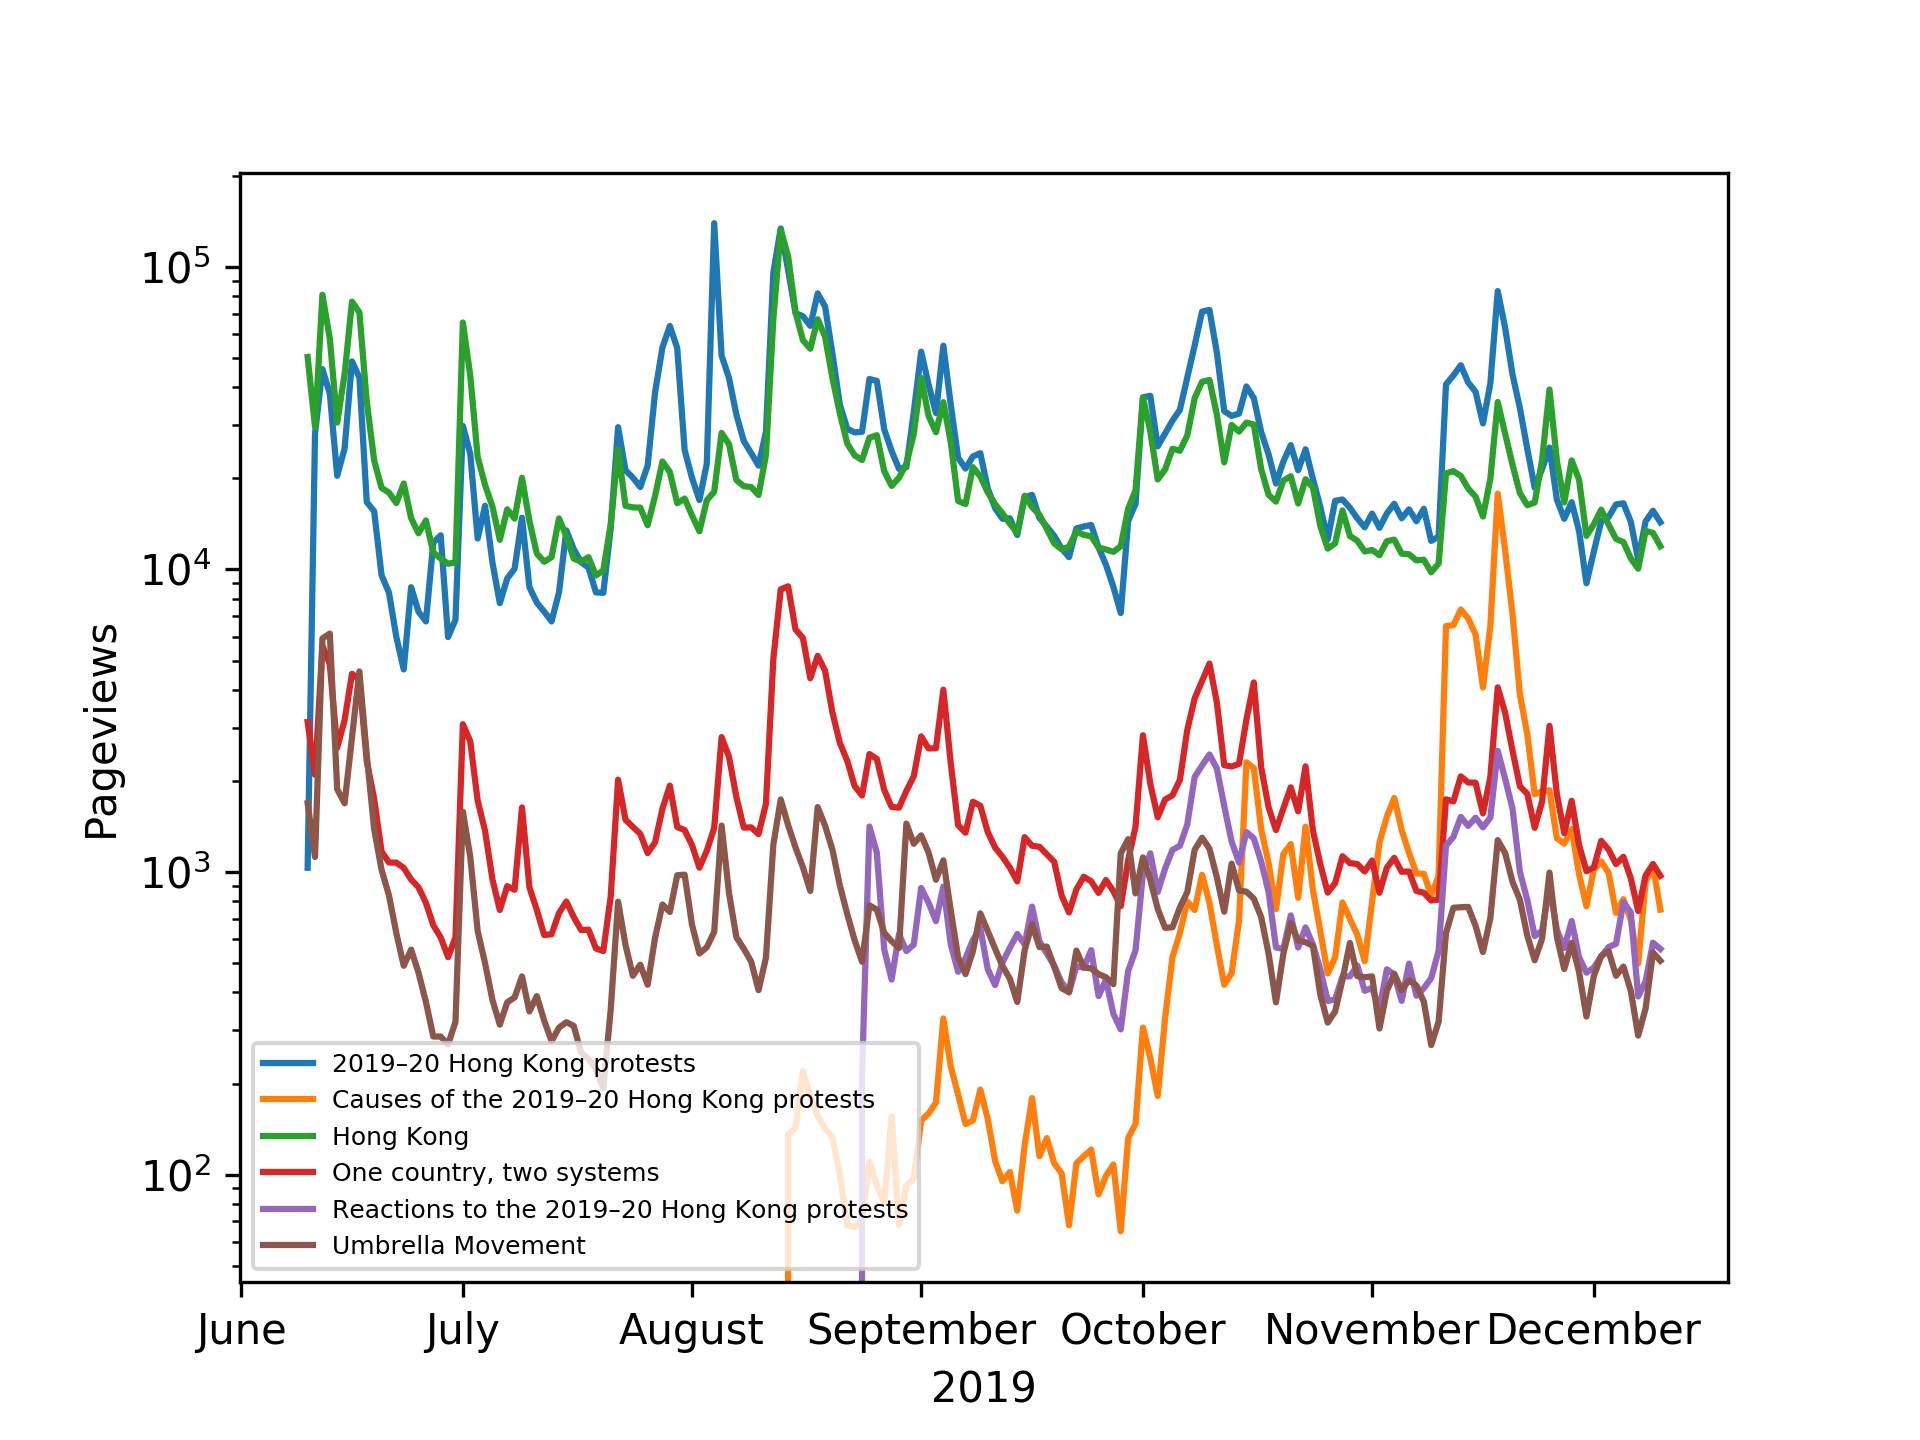
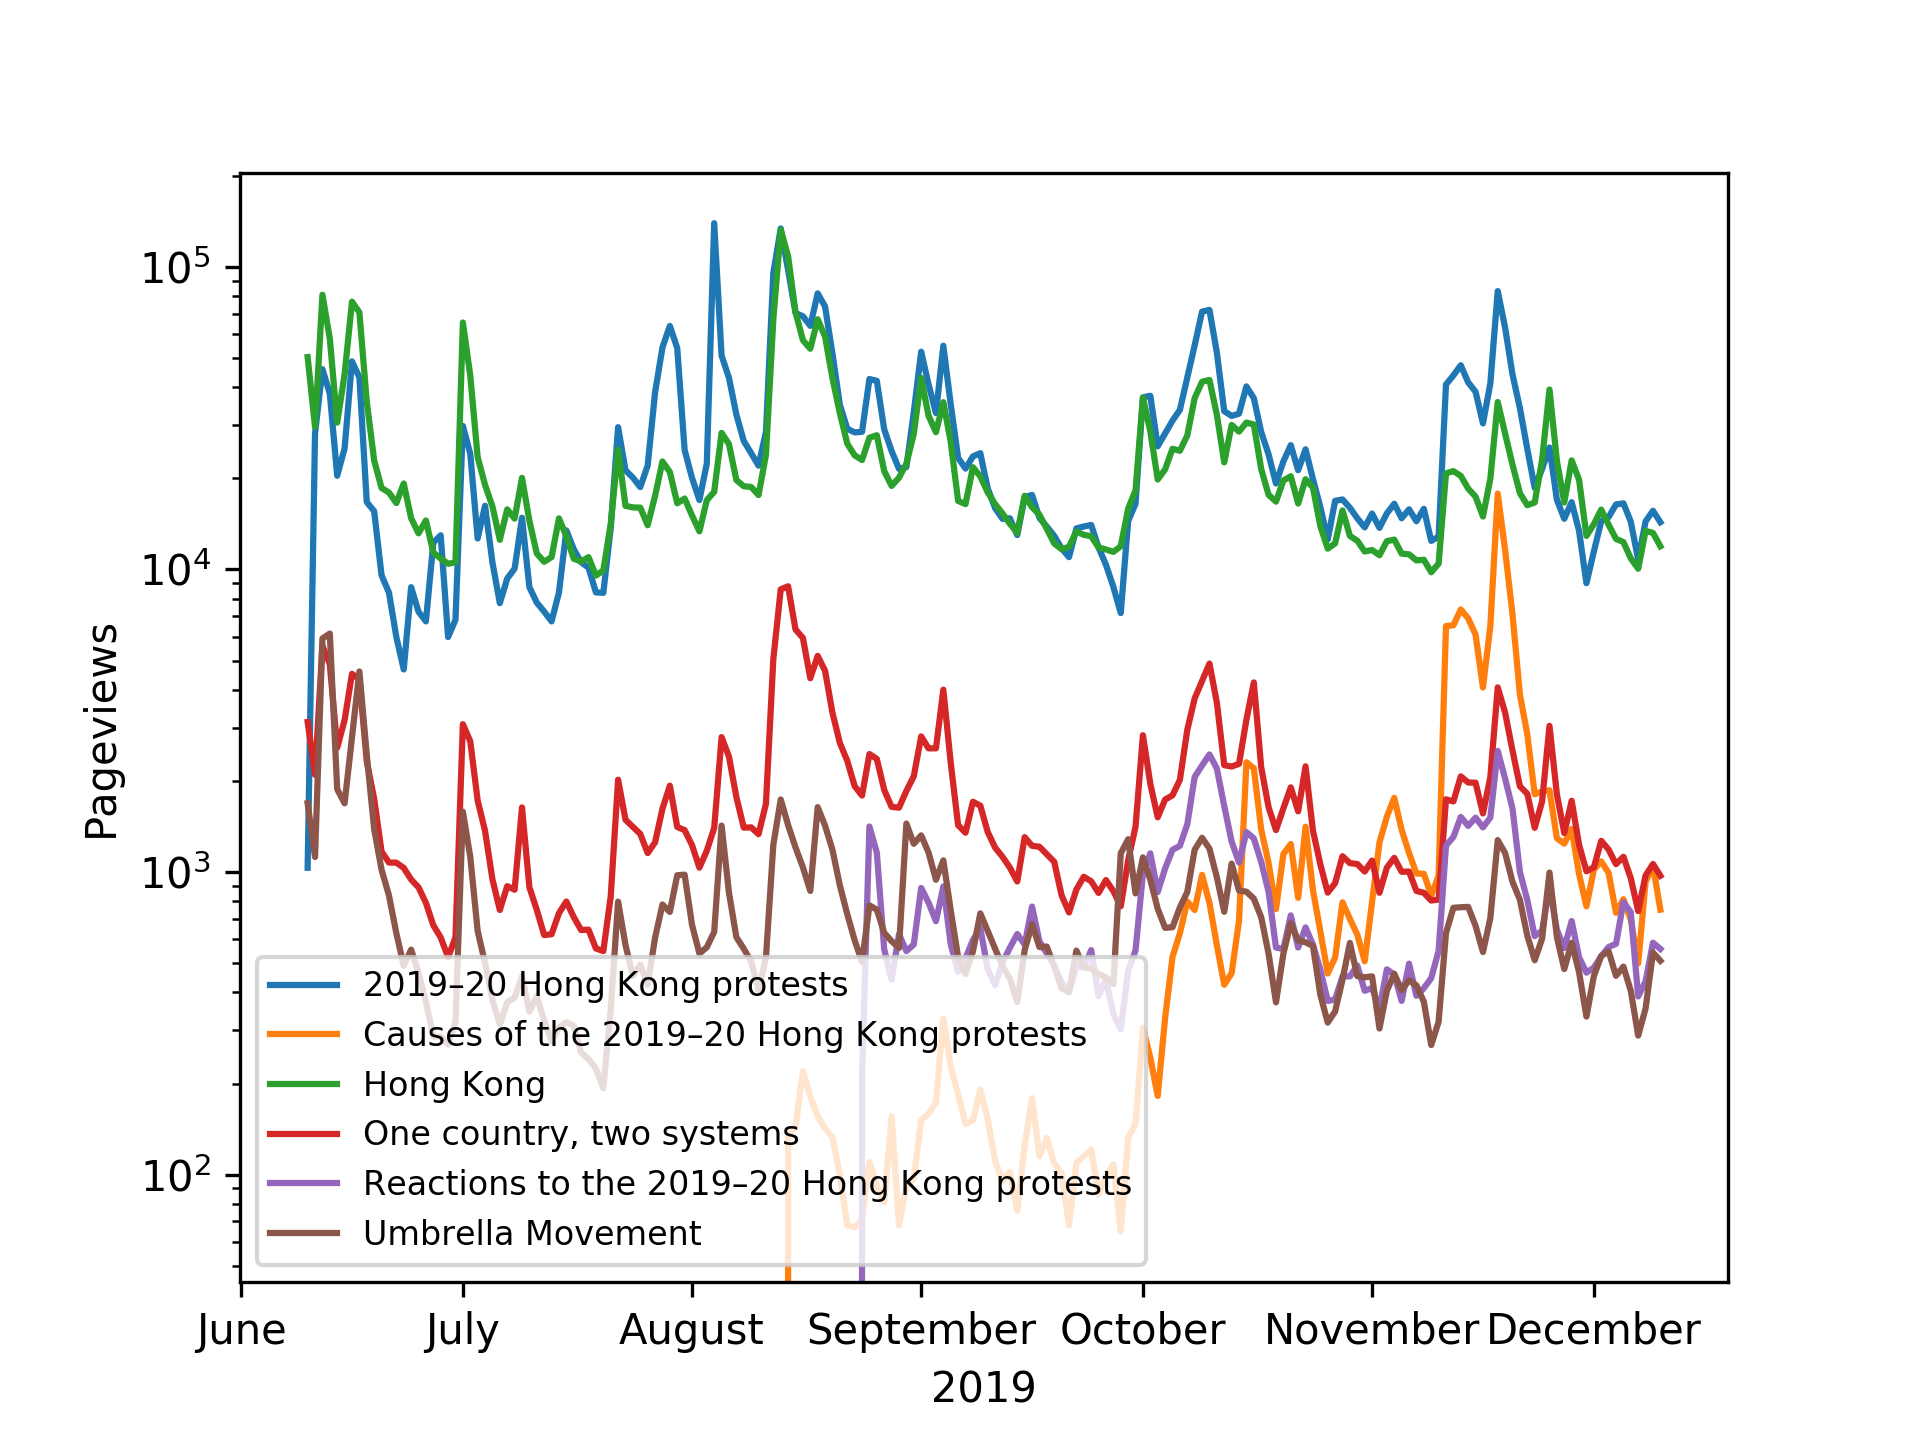
legend size

Changed region(s): [[0.125, 0.6562, 0.5938, 0.9062], [0.5938, 0.7188, 0.625, 0.75]]

diff --git a/pageviews.py b/pageviews.py
@@ -223,7 +223,7 @@ def plotAggregate(pageDict):
     plt.yscale("log")
     plt.xlabel("2019")
     # https://matplotlib.org/api/pyplot_api.html#matplotlib.pyplot.legend
-    plt.legend(loc=3,prop={'size': 6})
+    plt.legend(loc=3,prop={'size': 8})
     # https://stackoverflow.com/questions/46555819/months-as-axis-ticks
     X = plt.gca().xaxis
     X.set_major_locator(months)
